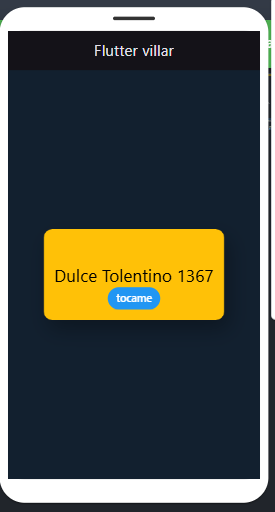
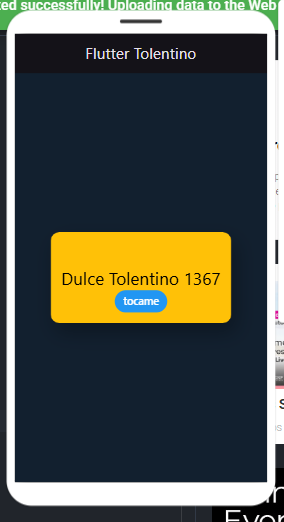
ahora sii

Changed region(s): [[0.0, 0.0, 1.0, 1.0], [0.1455, 0.4375, 0.8145, 0.625]]

diff --git a/lib/main.dart b/lib/main.dart
@@ -15,7 +15,7 @@ class MiTarjeta extends StatelessWidget {
         title: "Flutter Widget Tarjeta Card",
         home: Scaffold(
           appBar: AppBar(
-            title: const Text("Flutter villar"),
+            title: const Text("Flutter Tolentino"),
             centerTitle: true,
           ),
           body: LaTarjeta(),
